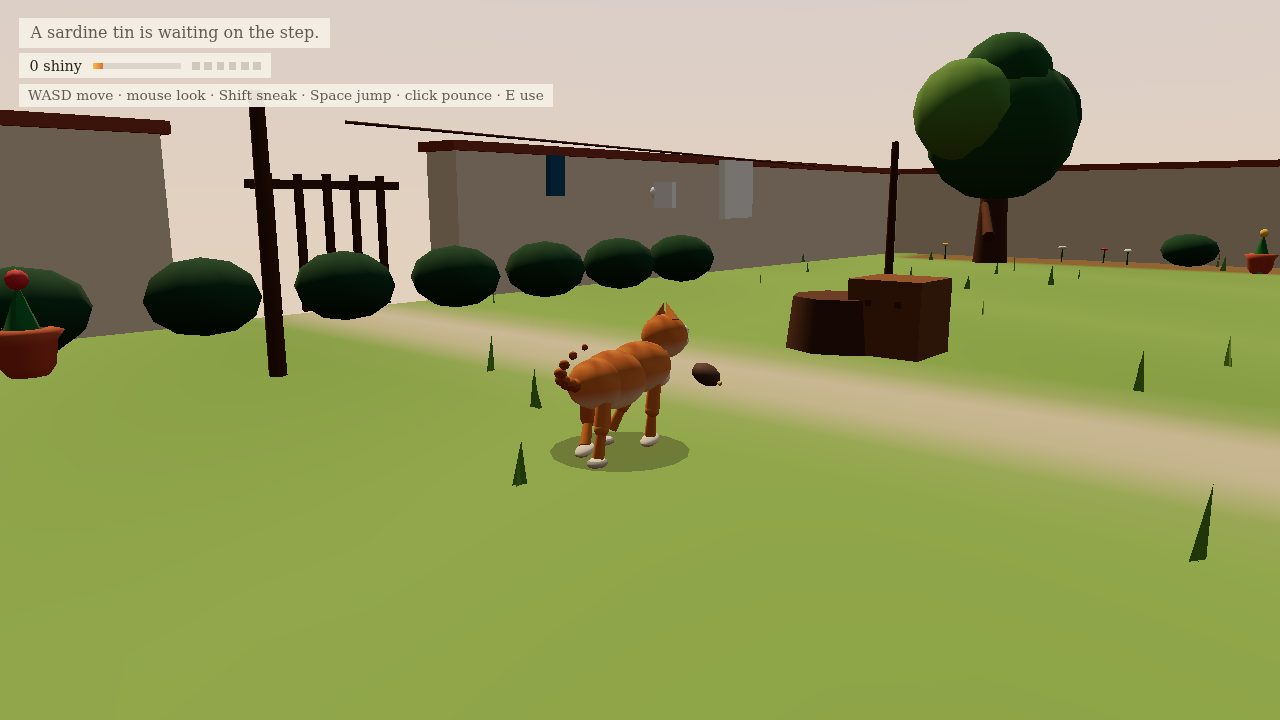
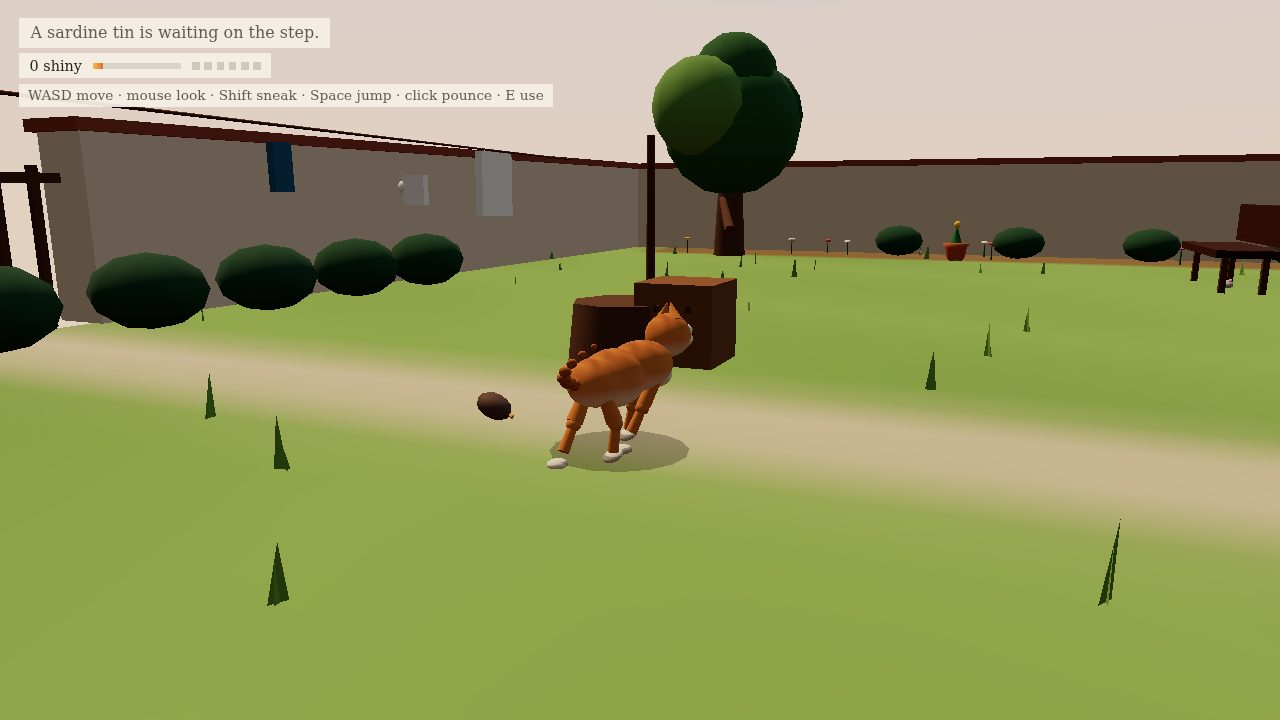
Fix the gate, the pause clock, and mouse look
The back walls stopped short of the gate, so the cat could walk out of the courtyard. The daylight clock kept running while the pause menu said the afternoon waits. Play updates received an input snapshot with no pointer-lock callback, so a refused lock never enabled mouse look.

diff --git a/runs/grok-4-7/src/game.js b/runs/grok-4-7/src/game.js
@@ -490,7 +490,7 @@ export function createGame({ scene, camera, renderer, audio, quality }) {
     world.patch.position.set(patchX, 0.035, patchZ);
     const inSun = Math.hypot(player.x - patchX, player.z - patchZ) < 1.45;
     const basking = inSun && idle > 0.6 && grounded && !climbing && !swimming && (mode === 'play' || mode === 'title');
-    sunT += dt / LEVEL.dayLength * (basking ? 0.35 : 1);
+    if (mode !== 'pause') sunT += dt / LEVEL.dayLength * (basking ? 0.35 : 1);
     if (basking && (animMode() === 'sit' || animMode() === 'loaf' || animMode() === 'groom' || mode === 'title')) {
       sunBank += dt;
       if (sunBank > 6) {

diff --git a/runs/grok-4-7/src/world.js b/runs/grok-4-7/src/world.js
@@ -312,8 +312,8 @@ export function createWorld(scene, renderer, quality) {
   }
   wall(-12.15, 4.6, 0.55, 19.2, LEVEL.wallH, true);
   wall(12.15, 4.6, 0.55, 19.2, LEVEL.wallH, true);
-  wall(-6.6, 14.15, 10.6, 0.5, LEVEL.wallH, true);
-  wall(6.7, 14.15, 10.4, 0.5, LEVEL.wallH, true);
+  wall(-6.35, 14.15, 11.1, 0.5, LEVEL.wallH, true);
+  wall(6.35, 14.15, 11.1, 0.5, LEVEL.wallH, true);
   // Gate
   for (let i = -2; i <= 2; i++) {
     const bar = flag(new THREE.Mesh(new THREE.BoxGeometry(0.06, 1.25, 0.06), mats.woodDark));

diff --git a/runs/grok-4-7/src/input.js b/runs/grok-4-7/src/input.js
@@ -70,6 +70,7 @@ export function createInput(canvas) {
       right,
       lockFailed,
       locked: Boolean(document.pointerLockElement),
+      tryLock,
     };
     dx = 0;
     dy = 0;

diff --git a/runs/grok-4-7/NOTES.md b/runs/grok-4-7/NOTES.md
@@ -20,4 +20,4 @@ The sit now drops onto the haunches, the loaf meets the grass, the climb paws re
 
 ## How I verified it
 
-Headless Chromium via `npm run shot`, then I looked at the title, stand, sit, loaf, walk (including a side view), swim, climb, garden and ending frames and changed the poses the pictures disagreed with. A later pass checked the sit, the loaf on the grass, two phases of the shortened walk, and the ivy grip, including one set with the shadow map forced on. A scripted pass collected the tin, bought cream, paused, resumed, attached to the ivy and swam. `npm run check -- grok-4-7` passed (WebGL2, animated, offline, quiet console). The machine renders with SwiftShader, so those frames are soft and slow; they are not a performance score.
+Headless Chromium via `npm run shot`, then I looked at the title, stand, sit, loaf, walk (including a side view), swim, climb, garden and ending frames and changed the poses the pictures disagreed with. A later pass checked the sit, the loaf on the grass, two phases of the shortened walk, and the ivy grip, including one set with the shadow map forced on. A scripted pass collected the tin, bought cream, paused, resumed, attached to the ivy and swam. A later pass closed the gaps beside the garden gate, stopped the daylight clock while the pause menu is open, and passed pointer-lock into the play update so a refused lock still lets the mouse look. `npm run check -- grok-4-7` passed (WebGL2, animated, offline, quiet console). The machine renders with SwiftShader, so those frames are soft and slow; they are not a performance score.
